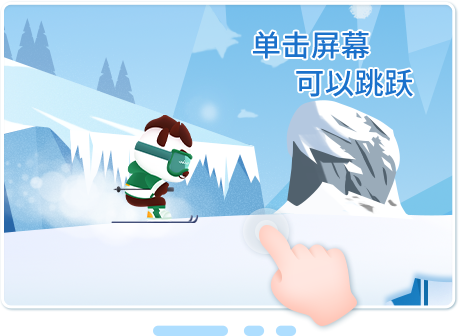
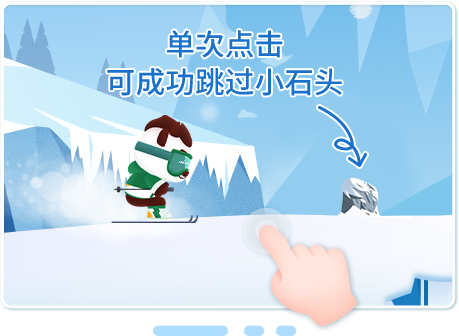
feat；新手引导调整

Changed region(s): [[0.2135, 0.0893, 0.915, 0.6548]]

diff --git a/src/pages/gamepage/gameStore.js b/src/pages/gamepage/gameStore.js
@@ -48,8 +48,8 @@ const gameStore = makeAutoObservable(mix({
 
 
     addPropGuide1(){
-        const propGuide = FYGE.Sprite.fromUrl("//yun.duiba.com.cn/aurora/assets/421a46bf9980bc655c608079fd831351bf0ab554.png")
-        propGuide.x =  9841
+        const propGuide = FYGE.Sprite.fromUrl("//yun.duiba.com.cn/aurora/assets/538c007f534b184d79d4e18594615f1df3a2c6b1.png")
+        propGuide.x =  9751
         propGuide.y =  2206
         this.bgCon.addChildAt(propGuide,1)
 
@@ -59,9 +59,9 @@ const gameStore = makeAutoObservable(mix({
         this.bgCon.addChildAt(propGuideNice,1)
 
 
-        const propGuide2 = FYGE.Sprite.fromUrl("//yun.duiba.com.cn/aurora/assets/421a46bf9980bc655c608079fd831351bf0ab554.png")
-        propGuide2.x =  29170 // 29212 6655
-        propGuide2.y =  6535
+        const propGuide2 = FYGE.Sprite.fromUrl("//yun.duiba.com.cn/aurora/assets/5cd95e8f0c35efefc6e051df324867089b0e456f.png")
+        propGuide2.x =  29120 // 29212 6655
+        propGuide2.y =  6475
         this.bgCon.addChildAt(propGuide2,1)
 
         const propGuideNice2 = FYGE.Sprite.fromUrl("//yun.duiba.com.cn/aurora/assets/940f611ebd4024cdb1698f8919873660293adb0f.png")

diff --git a/src/panel/gameGuide/gameGuide.jsx b/src/panel/gameGuide/gameGuide.jsx
@@ -1,5 +1,5 @@
 /**
- * 游戏离开弹窗
+ * 游戏引导弹窗
  */
 "use strict";
 
